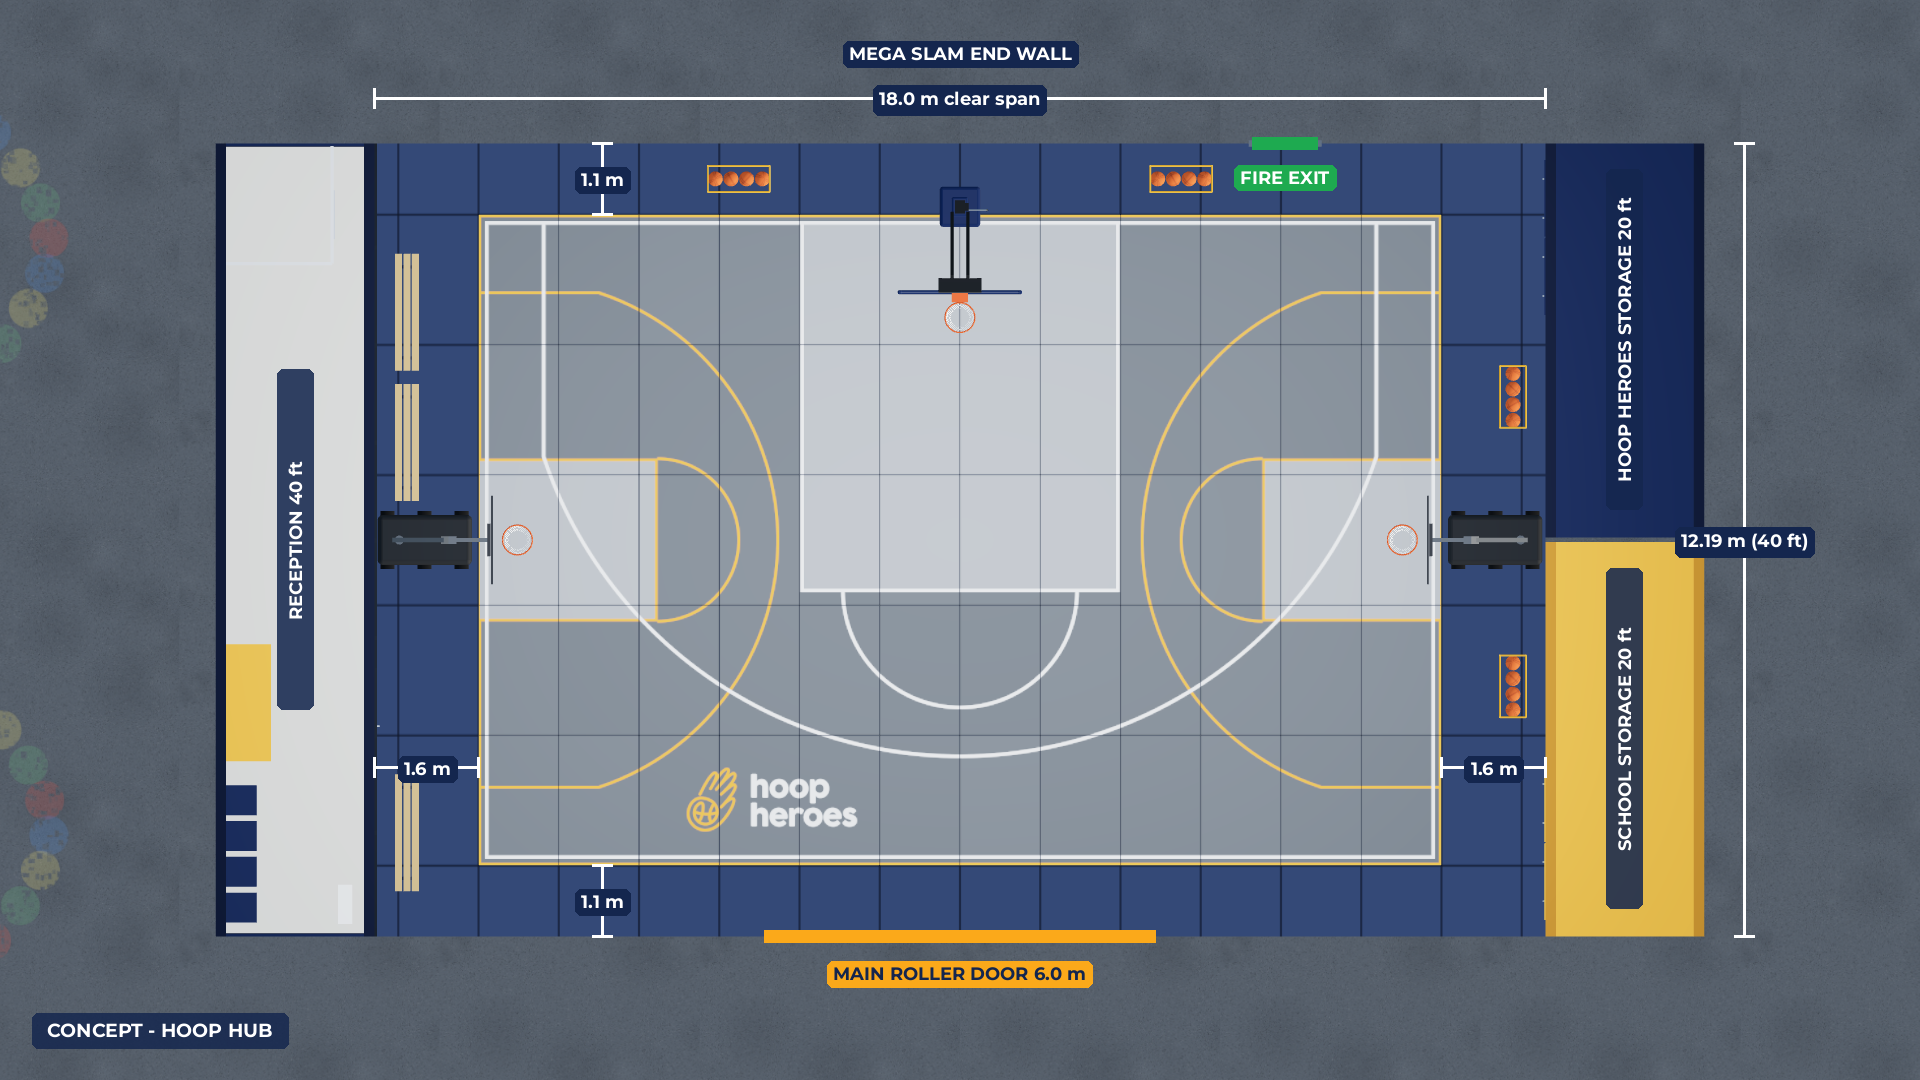
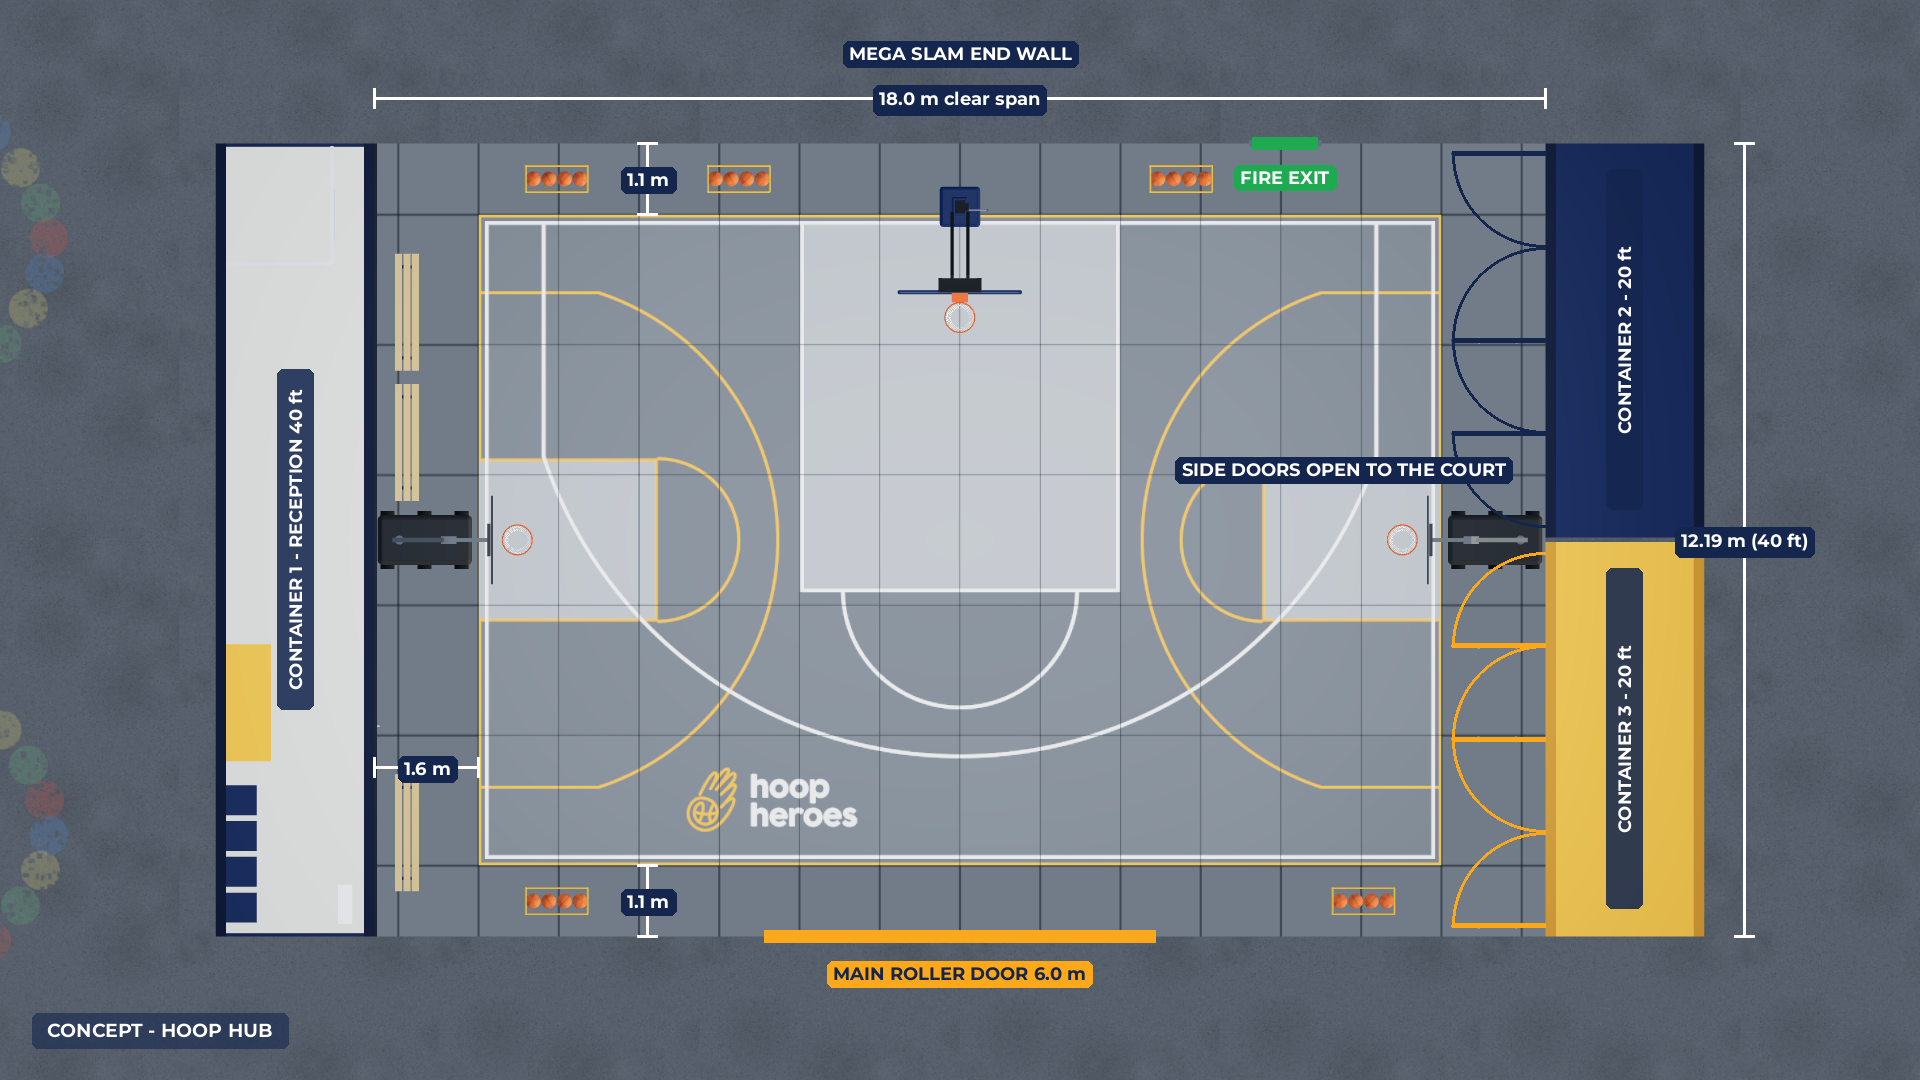
Phase 2: grey run-off, side-opening storage containers, racks moved to the end walls
Claude-Session: https://claude.ai/code/session_01UoyugYzmaTfuHsWdpUMhBc

diff --git a/court-viz/phase2/hub.js b/court-viz/phase2/hub.js
@@ -18,7 +18,7 @@ export const HUB = {
   cw: 2.44, // container width
   ch: 2.59, // container height: the arch springs from the roofs
   crown: 7.6,
-  runoff: '#3b4a6b',
+  runoff: COL.court, // same grey panels as the court (Jamie, 21 Oct 2026)
   reception: { z0: -1.095, z1: 11.095 }, // 40 ft, left
   hhStore: { z0: -1.095, z1: 4.963 }, // 20 ft navy, right, Mega Slam end
   schoolStore: { z0: 5.032, z1: 11.095 }, // 20 ft gold, right, entrance end
@@ -33,11 +33,13 @@ export const HUB = {
     [8.6, 10.4],
   ],
   ribs: 7,
+  // ball racks along the end walls, clear of the side-opening storage and the exits
   racks: [
+    [-6.2, -0.55, 0],
     [-3.4, -0.55, 0],
     [3.4, -0.55, 0],
-    [8.5, 2.8, Math.PI / 2],
-    [8.5, 7.25, Math.PI / 2],
+    [-6.2, 10.55, 0],
+    [6.2, 10.55, 0],
   ],
 };
 const RISE = HUB.crown - HUB.ch;
@@ -60,7 +62,7 @@ function runoffTexture() {
   const g = c.getContext('2d');
   g.fillStyle = HUB.runoff;
   g.fillRect(0, 0, c.width, c.height);
-  g.strokeStyle = 'rgba(10, 18, 36, 0.55)';
+  g.strokeStyle = 'rgba(20, 22, 26, 0.45)';
   g.lineWidth = 2;
   const pw = DIM.panel.w;
   for (let x = -7.4 - pw * 2; x <= 9; x += pw) {
@@ -193,7 +195,7 @@ function exitDoor(w, h) {
 
 class Unit {
   // a container along z, its court-facing side at x = face; side = -1 on the left row, +1 on the right
-  constructor({ z0, z1, side, color, glazed = false, doors = [] }) {
+  constructor({ z0, z1, side, color, glazed = false, hinges = [1, -1, 1, -1] }) {
     const { cw, ch } = HUB;
     this.group = new THREE.Group();
     const len = z1 - z0;
@@ -232,20 +234,30 @@ class Unit {
     }
     if (glazed) this.glaze(z0, z1, faceX, side);
     else {
-      // court side: ribbed steel with side-opening door pairs
-      g.add(box(0.04, ch - 0.12, len, ribbed, faceX + side * 0.02, ch / 2 + 0.03, cz));
-      const leaf = std(color, { roughness: 0.55, metalness: 0.15, bumpMap: corrugation(1.1, 2.3), bumpScale: 2 });
+      // court side: a full-length side-opener, two pairs of leaves swinging out towards the court
+      const lh = ch - 0.32;
+      const leafLen = (len - 0.32) / 4;
+      const leaf = std(color, { roughness: 0.55, metalness: 0.15, bumpMap: corrugation(leafLen, lh), bumpScale: 2 });
       const bar = std('#9aa0a6', { roughness: 0.35, metalness: 0.8 });
-      for (const [dz0, dz1] of doors) {
-        const n = 2;
-        const w = (dz1 - dz0) / n;
-        for (let i = 0; i < n; i++) {
-          const z = dz0 + w * (i + 0.5);
-          g.add(box(0.03, 2.3, w - 0.02, leaf, faceX - side * 0.005, 1.29, z));
-          for (const o of [-w * 0.25, w * 0.25]) g.add(box(0.03, 2.2, 0.03, bar, faceX - side * 0.03, 1.29, z + o));
-        }
+      g.add(box(cw - 0.3, ch - 0.3, len - 0.3, std('#20232a', { roughness: 0.95, side: THREE.BackSide }), cx, ch / 2, cz));
+      this.leaves = [];
+      for (let i = 0; i < 4; i++) {
+        const low = hinges[i] > 0; // hinge on the leaf's low-z edge
+        const hz = z0 + 0.16 + leafLen * (low ? i : i + 1);
+        const pivot = new THREE.Group();
+        pivot.position.set(faceX - side * 0.02, ch / 2, hz);
+        const dir = low ? 1 : -1;
+        pivot.add(box(0.035, lh, leafLen - 0.015, leaf, 0, 0, (dir * leafLen) / 2));
+        for (const o of [0.3, 0.7]) pivot.add(box(0.03, lh - 0.1, 0.03, bar, -side * 0.03, 0, dir * leafLen * o));
+        pivot.userData.sign = -side * dir;
+        g.add(pivot);
+        this.leaves.push(pivot);
       }
     }
+  }
+  setDoors(open) {
+    // 0 shut, 1 open square to the container, into the run-off
+    for (const p of this.leaves ?? []) p.rotation.y = p.userData.sign * open * (Math.PI / 2);
   }
   glaze(z0, z1, faceX, side) {
     // reception: glazed court side in aluminium frames, with a glazed door
@@ -431,11 +443,12 @@ export async function createPhase2(renderer, { logoUrl = 'assets/logo.png', mark
     hp.group.rotation.set(0, i ? Math.PI : 0, 0);
   });
 
-  // containers: 40 ft reception left, 20 ft Hoop Heroes and school storage right, doors on the court side
+  // containers: 40 ft reception left, 20 ft Hoop Heroes and school storage right, side-opening onto the court
   const units = {
     reception: new Unit({ ...HUB.reception, side: -1, color: COL.navy, glazed: true }),
-    hhStore: new Unit({ ...HUB.hhStore, side: 1, color: COL.navy, doors: [[-0.85, 1.55]] }),
-    schoolStore: new Unit({ ...HUB.schoolStore, side: 1, color: COL.gold, doors: [[8.45, 10.85]] }),
+    // the leaves next to the join hinge away from it, so they swing clear of the right portable hoop
+    hhStore: new Unit({ ...HUB.hhStore, side: 1, color: COL.navy, hinges: [1, -1, 1, 1] }),
+    schoolStore: new Unit({ ...HUB.schoolStore, side: 1, color: COL.gold, hinges: [-1, -1, 1, -1] }),
   };
   for (const un of Object.values(units)) scene.add(un.group);
 
@@ -496,7 +509,7 @@ export async function createPhase2(renderer, { logoUrl = 'assets/logo.png', mark
   fe1.rotation.y = Math.PI; // opens outward, away from the court
   enclosure.add(fe1);
 
-  // ball racks: either side of the Mega Slam, and in front of the two storage units
+  // ball racks
   for (const [x, z, ry] of HUB.racks) {
     const r = ballRack();
     r.position.set(x, 0.015, z);
@@ -519,7 +532,7 @@ export async function createPhase2(renderer, { logoUrl = 'assets/logo.png', mark
       enclosure.add(l.group);
     }
 
-  const state = { mini: true, rimFt: 10, padding: 'navy', roller: 1, cutaway: false };
+  const state = { mini: true, rimFt: 10, padding: 'navy', roller: 1, cutaway: false, storeDoors: 0 };
   const portableRim = () => THREE.MathUtils.clamp(state.rimFt * FT, 2.4, 3.05);
   const apply = (next = {}) => {
     Object.assign(state, next);
@@ -532,6 +545,8 @@ export async function createPhase2(renderer, { logoUrl = 'assets/logo.png', mark
       hp.setHeight(portableRim());
     });
     roller.set(state.roller);
+    units.hhStore.setDoors(state.storeDoors);
+    units.schoolStore.setDoors(state.storeDoors);
     // top-down cutaway: lift the canopy and the reception roof off
     archGroup.visible = !state.cutaway;
     for (const l of lamps) l.group.visible = !state.cutaway;
@@ -547,6 +562,8 @@ export async function createPhase2(renderer, { logoUrl = 'assets/logo.png', mark
 // camera presets for the six Phase 2 shots in the brief
 export const SHOTS = {
   1: { label: 'Outside', pos: [12.5, 3.6, 28.5], target: [0.4, 3.0, 5.5], fov: 42, state: { roller: 1 } },
-  2: { label: 'Inside', pos: [4.6, 1.8, 11.3], target: [-2.2, 2.0, 1.2], fov: 52, state: { roller: 1 } },
+  2: { label: 'Inside', pos: [4.6, 1.8, 10.7], target: [-2.2, 2.0, 0.8], fov: 54, state: { roller: 1 } },
   3: { label: 'Top-down', ortho: { cx: 0, cz: 5, height: 16.6 }, state: { roller: 1, cutaway: true } },
+  // detail for signing off the side-opening storage
+  s1: { label: 'Storage open', pos: [-5.5, 2.4, 9.8], target: [7.5, 1.2, 3.0], fov: 50, state: { roller: 1, storeDoors: 1 } },
 };
